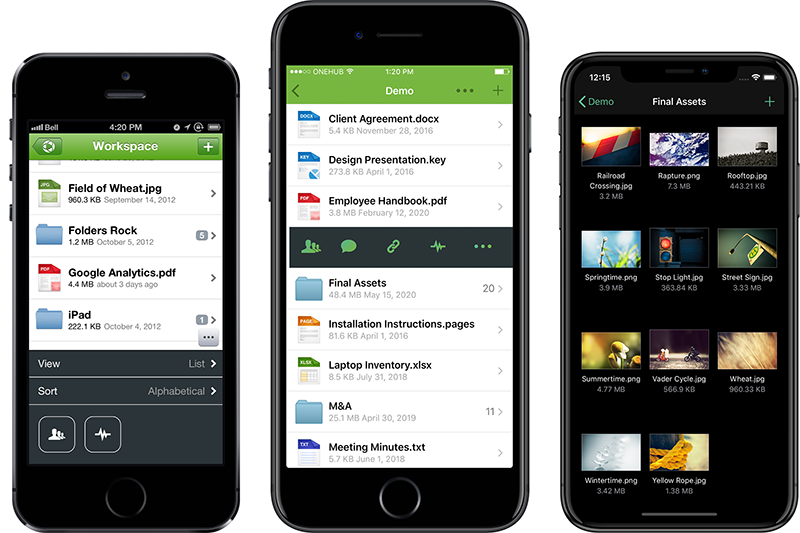
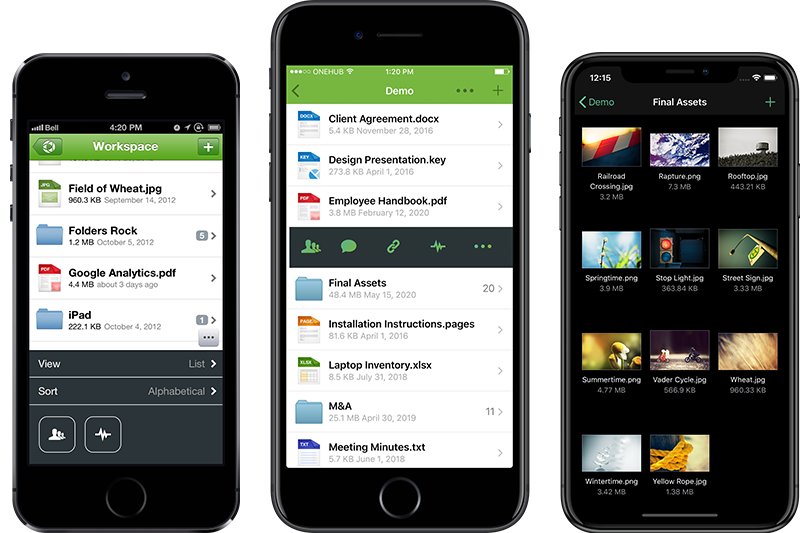
Dark mode image fixes.

diff --git a/src/marshal/index.html b/src/marshal/index.html
@@ -484,10 +484,10 @@
         <p>The result is a product brand that is consumer friendly but powerful in presence. The name sounds like a person while also denoting safety. The logo is strong and angled but constructed with simple and pleasing geometric shapes. The color palette is functional and flexible.</p>
         <figure class="sidekick">
           <div class="frame">
-            <img src="/images/marshal/logo/marshal-logo~444.png"
-                 srcset="/images/marshal/logo/marshal-logo~222.png 222w,
-                         /images/marshal/logo/marshal-logo~444.png 444w,
-                         /images/marshal/logo/marshal-logo~888.png 888w"
+            <img src="/images/marshal/logo/marshal-logo~800.png"
+                 srcset="/images/marshal/logo/marshal-logo~400.png 400w,
+                         /images/marshal/logo/marshal-logo~800.png 800w,
+                         /images/marshal/logo/marshal-logo~1600.png 1600w"
                  alt="Marshal - logo">
           </div>
           <figcaption>The Marshal logo.</figcaption>

diff --git a/src/stylesheets/views/_marshal.scss b/src/stylesheets/views/_marshal.scss
@@ -12,25 +12,4 @@
       color: $grey-2;
     }
   }
-  .logo {
-    .sidekick {
-      .frame { padding: 4rem; }
-    }
-  }
-
-  @include breakpoint($breakpoint-tablet) {
-    .logo {
-      .sidekick {
-        .frame { padding: 6rem; }
-      }
-    }
-  }
-
-  @include breakpoint($breakpoint-widescreen) {
-    .logo {
-      .sidekick {
-        .frame { padding: 8rem; }
-      }
-    }
-  }
 }

diff --git a/src/stylesheets/regions/_layout.scss b/src/stylesheets/regions/_layout.scss
@@ -61,7 +61,7 @@ section {
 }
 
 @include dark-mode {
-  img { filter: brightness(.8) contrast(1.2); }
+  img, object { filter: brightness(.8) contrast(1.2); }
 }
 
 @include breakpoint($breakpoint-tablet) {
